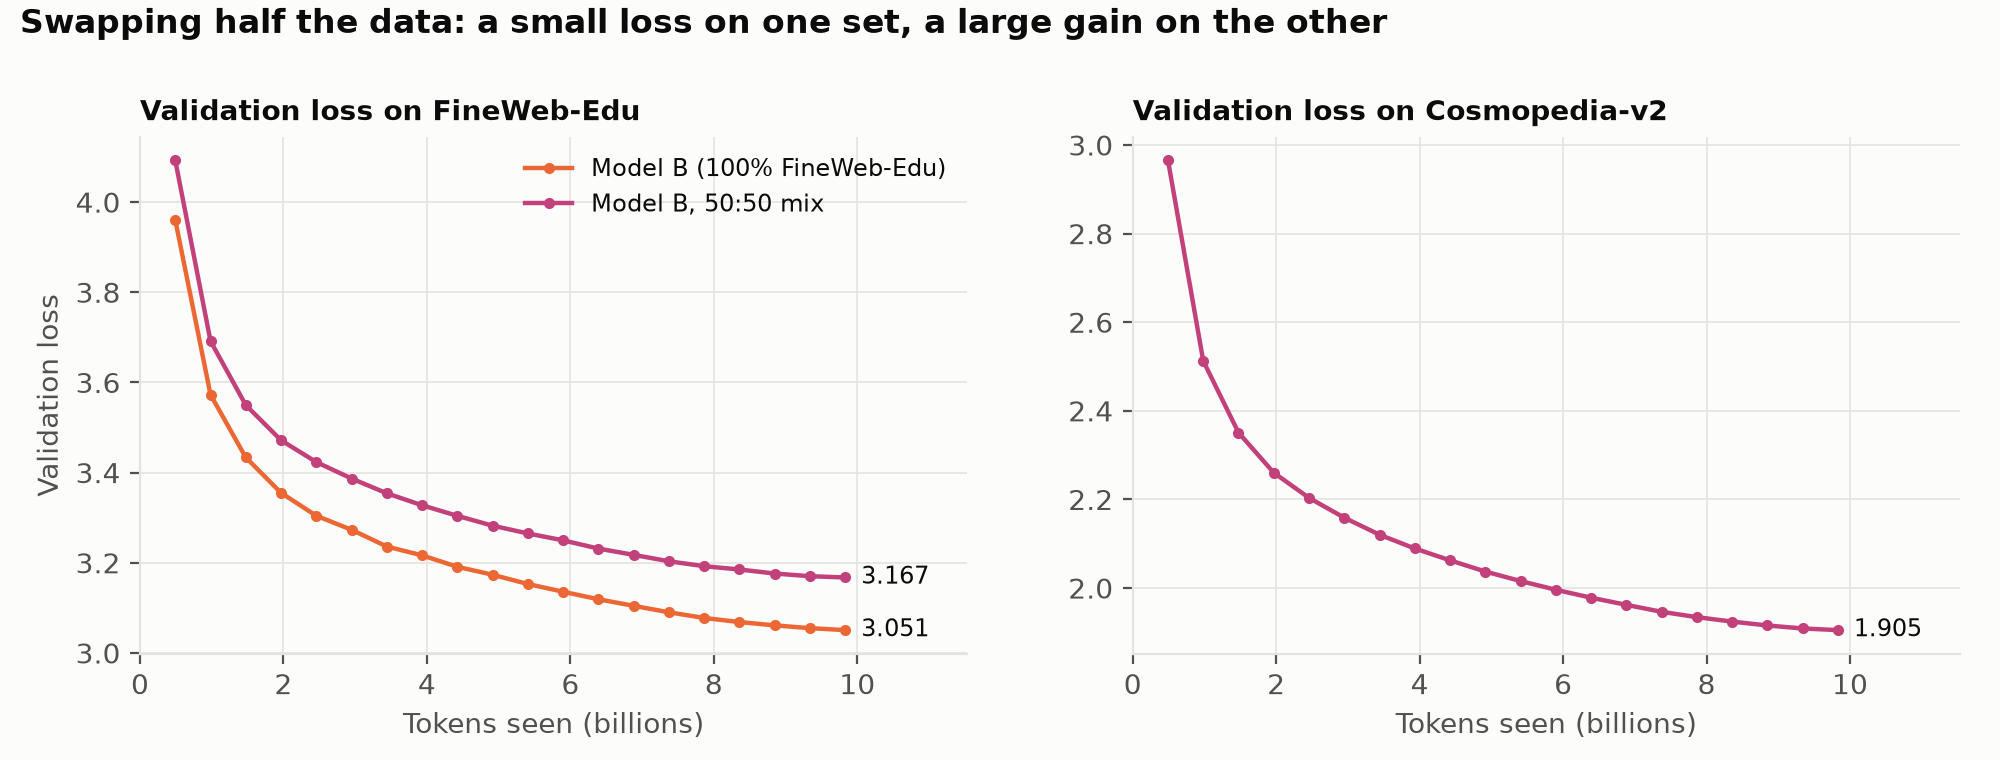
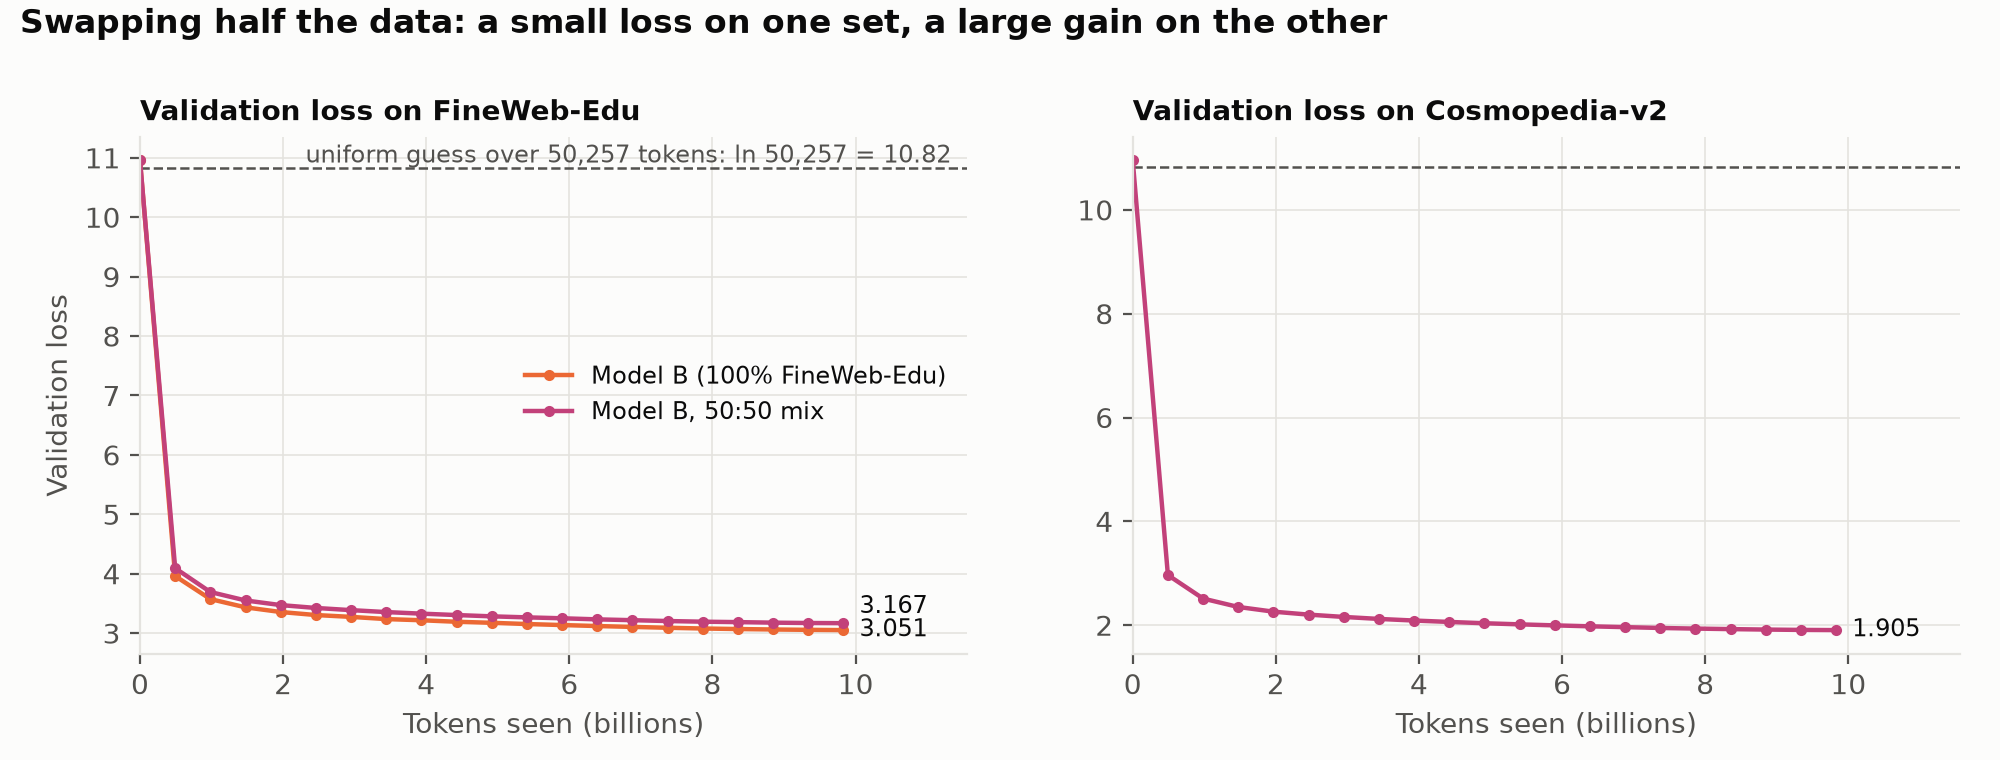
Loss curves start from the untrained model, against ln(vocabulary)
The headline and data-mix validation-loss figures keep the step-0 evaluation (about 11.0) and mark the loss of a
uniform guess over GPT-2's 50,257 tokens (ln 50,257 = 10.82, from the tokenizer). The headline gap and noise still
compare trained evaluations only; its x-axis starts at 0.

Claude-Session: https://claude.ai/code/session_011g3Lyr8UvzJaXaqXaADC6N

diff --git a/analysis/headline_comparison/01_loss_overlay.py b/analysis/headline_comparison/01_loss_overlay.py
@@ -30,8 +30,9 @@ def main():
         os.makedirs(headline.DATA, exist_ok=True)
         runs.fetch(paths, ["iter", "tokens", "val/loss"], headline.CONFIG_KEYS, HISTORY_CSV, CONFIG_JSON)
     history, _ = runs.load(paths, HISTORY_CSV, CONFIG_JSON)
-    curves = {p: sorted((r["tokens"], r["val/loss"]) for r in rows if r["iter"] > 0)  # iter 0 is the untrained model
-              for p, rows in history.items()}
+    full = {p: sorted((r["tokens"], r["val/loss"]) for r in rows) for p, rows in history.items()}  # from iter 0
+    curves = {p: [point for point in points if point[0] > 0] for p, points in full.items()}  # trained evals only:
+    # the gap and the noise compare trained models, so the untrained iter 0 stays out of them
 
     a, b = (curves[p] for _, p in RUNS)
     assert [t for t, _ in a] == [t for t, _ in b], "the two runs must be evaluated at the same token counts"
@@ -41,10 +42,12 @@ def main():
 
     style.apply()
     fig, (top, bottom) = plt.subplots(2, 1, figsize=(8, 6.2), sharex=True, gridspec_kw={"height_ratios": [3, 2]})
-    for (label, path), color in zip(RUNS, style.SERIES):
-        top.plot(tokens, [l for _, l in curves[path]], color=color, label=label, marker="o", markersize=3)
+    for (label, path), color in zip(RUNS, style.SERIES):  # from the untrained model at iter 0
+        top.plot([t / 1e9 for t, _ in full[path]], [l for _, l in full[path]], color=color, label=label, marker="o",
+                 markersize=3)
+    style.mark_uniform_loss(top)
     top.set_ylabel("Validation loss")
-    top.legend(loc="upper right", fontsize=8.5)
+    top.legend(loc="center right", fontsize=8.5)  # the empty middle: the uniform-guess label sits top right
 
     bottom.axhspan(-noise, noise, color=style.GRID, alpha=0.6, linewidth=0, zorder=0)  # differences in here are noise
     bottom.axhline(0, color=style.INK_SECONDARY, linewidth=0.8, zorder=1)
@@ -53,6 +56,7 @@ def main():
                 color=style.INK_SECONDARY)
     bottom.set_ylabel("Gap, B − A")
     bottom.set_xlabel("Tokens seen (billions)")
+    bottom.set_xlim(left=0)  # the axes share x: training starts at 0 tokens, with no padding before it
 
     fig.text(0.02, 0.985, "Same loss by the end", fontsize=12, fontweight="bold", va="top")
     fig.text(0.02, 0.945, f"Gemma-style leads by {-min(gap):.3f} early; after {tokens[-1]:.1f}B tokens the gap is "

diff --git a/analysis/data_mix/01_loss_curves.py b/analysis/data_mix/01_loss_curves.py
@@ -44,24 +44,29 @@ def main():
     if args.refresh or not os.path.exists(HISTORY_CSV):
         fetch()
     with open(HISTORY_CSV) as f:
-        rows = [r for r in csv.DictReader(f) if int(r["iter"]) > 0]  # iter 0 is the untrained model
+        rows = list(csv.DictReader(f))  # from iter 0, the untrained model
 
     style.apply()
     sets = mix.val_sets()
     fig, axes = plt.subplots(1, len(sets), figsize=(10, 3.8))
     for ax, dataset in zip(axes, sets):
+        ends = []  # (tokens, final loss) per curve, labelled after both are drawn
         for (path, label), color in (((mix.BASE, mix.LABELS[mix.BASE]), style.MODEL_B),
                                      ((mix.MIX, mix.LABELS[mix.MIX]), style.MODEL_B_MIX)):
             pts = sorted((float(r["tokens"]) / 1e9, float(r["loss"])) for r in rows
                          if r["run"] == path and r["key"] == mix.val_key(dataset))
             if pts:
                 ax.plot([p[0] for p in pts], [p[1] for p in pts], "o-", markersize=3, color=color, label=label)
-                ax.text(pts[-1][0], pts[-1][1], f"  {pts[-1][1]:.3f}", va="center", fontsize=8.5, color=style.INK)
+                ends.append(pts[-1])
+        label_gap = 0.045 * (ax.get_ylim()[1] - ax.get_ylim()[0])  # close finals would print on top of each other
+        for (x, y), placed in zip(ends, style.spread_labels([y for _, y in ends], label_gap)):
+            ax.text(x, placed, f"  {y:.3f}", va="center", fontsize=8.5, color=style.INK)
+        style.mark_uniform_loss(ax, label=dataset == sets[0])  # labelled once
         ax.set_title(f"Validation loss on {mix.display(dataset)}", fontsize=10)
         ax.set_xlabel("Tokens seen (billions)")
         ax.set_xlim(0, ax.get_xlim()[1] * 1.12)  # room for the end labels
     axes[0].set_ylabel("Validation loss")
-    axes[0].legend(loc="upper right", fontsize=8.5)
+    axes[0].legend(loc="center right", fontsize=8.5)  # the empty middle: the uniform-guess label sits top right
     fig.text(0.01, 0.99, "Swapping half the data: a small loss on one set, a large gain on the other", fontsize=12,
              fontweight="bold", va="top")
     fig.subplots_adjust(top=0.82, bottom=0.14, left=0.07, right=0.98, wspace=0.2)

diff --git a/analysis/common/style.py b/analysis/common/style.py
@@ -43,6 +43,20 @@ def apply():
     })
 
 
+def mark_uniform_loss(ax, label=True):
+    """A dashed line at ln(vocabulary size): the loss of a uniform guess over GPT-2's tokens, where an untrained model
+    starts (slightly above it, since random weights aren't perfectly uniform). The size comes from the tokenizer."""
+    import math
+    import tiktoken
+    vocabulary = tiktoken.get_encoding("gpt2").n_vocab  # 50,257
+    loss = math.log(vocabulary)
+    ax.axhline(loss, color=INK_SECONDARY, linewidth=0.9, linestyle="--", zorder=1)
+    if label:
+        ax.text(1, loss, f"uniform guess over {vocabulary:,} tokens: ln {vocabulary:,} = {loss:.2f}  ", ha="right",
+                va="bottom", fontsize=8.5, color=INK_SECONDARY, transform=ax.get_yaxis_transform())
+    return loss
+
+
 def spread_labels(ys, min_gap):
     """Nudge direct-label positions apart so near-identical lines don't print on top of each other."""
     order = sorted(range(len(ys)), key=lambda i: ys[i])  # label indices, lowest y first
